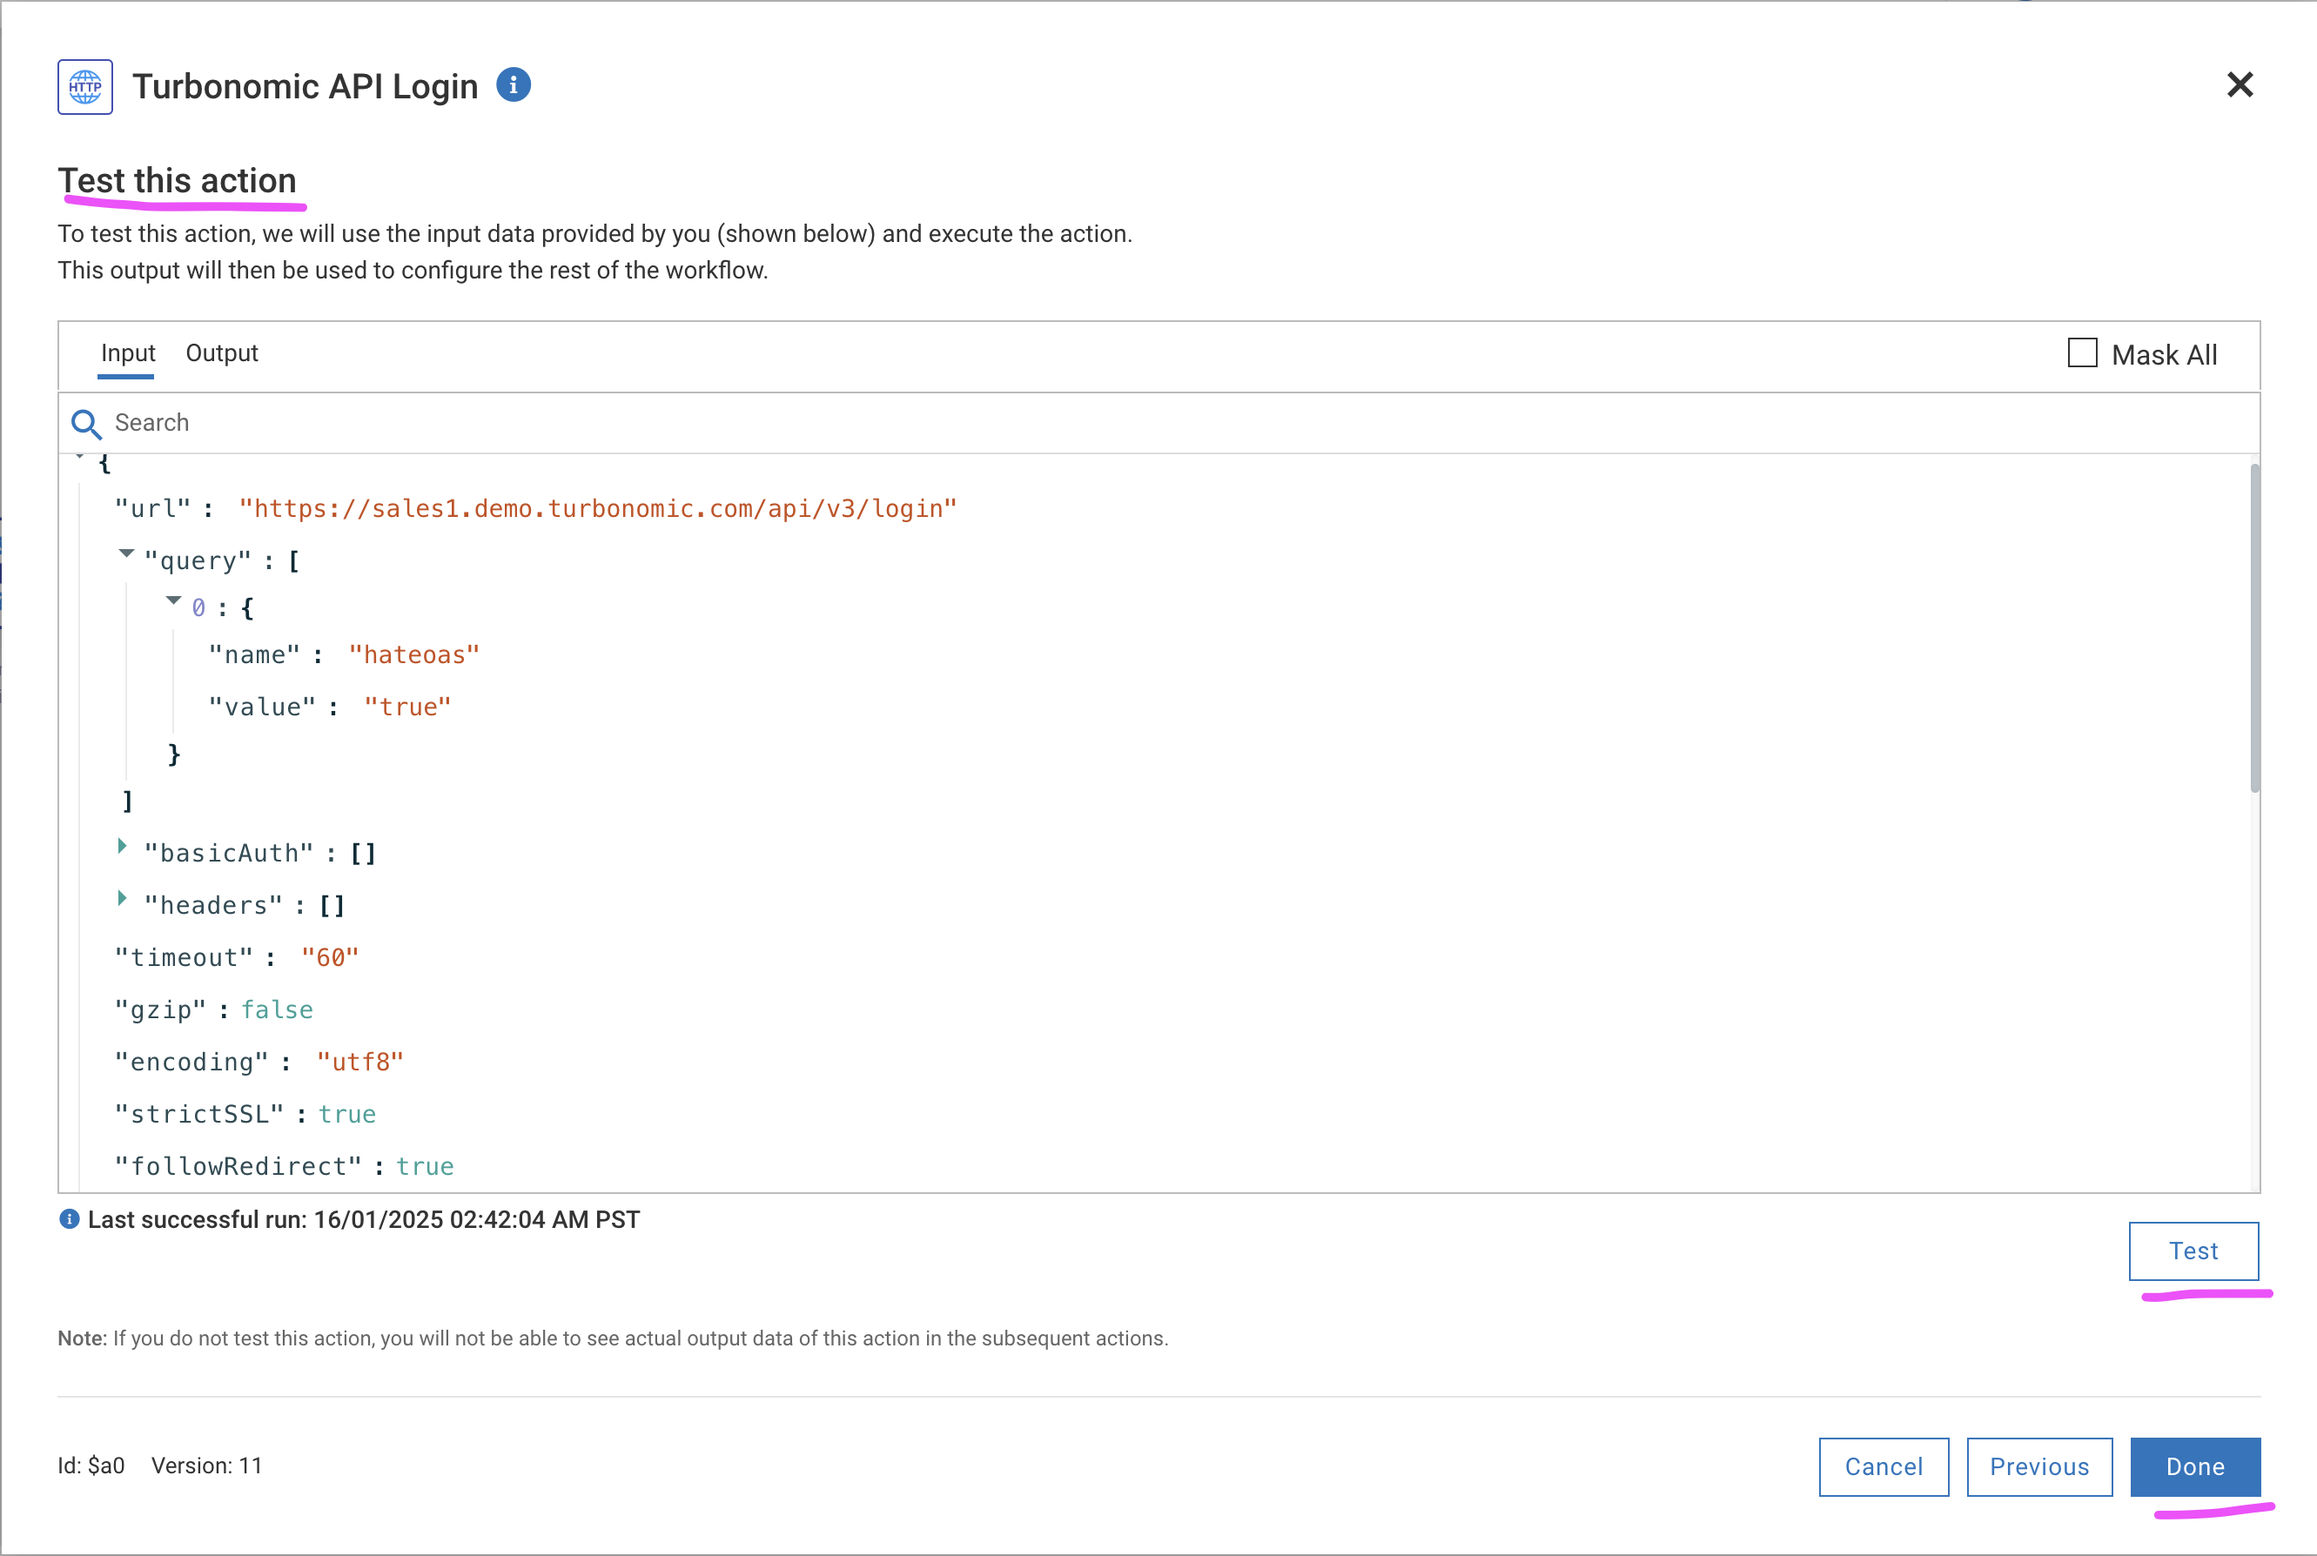
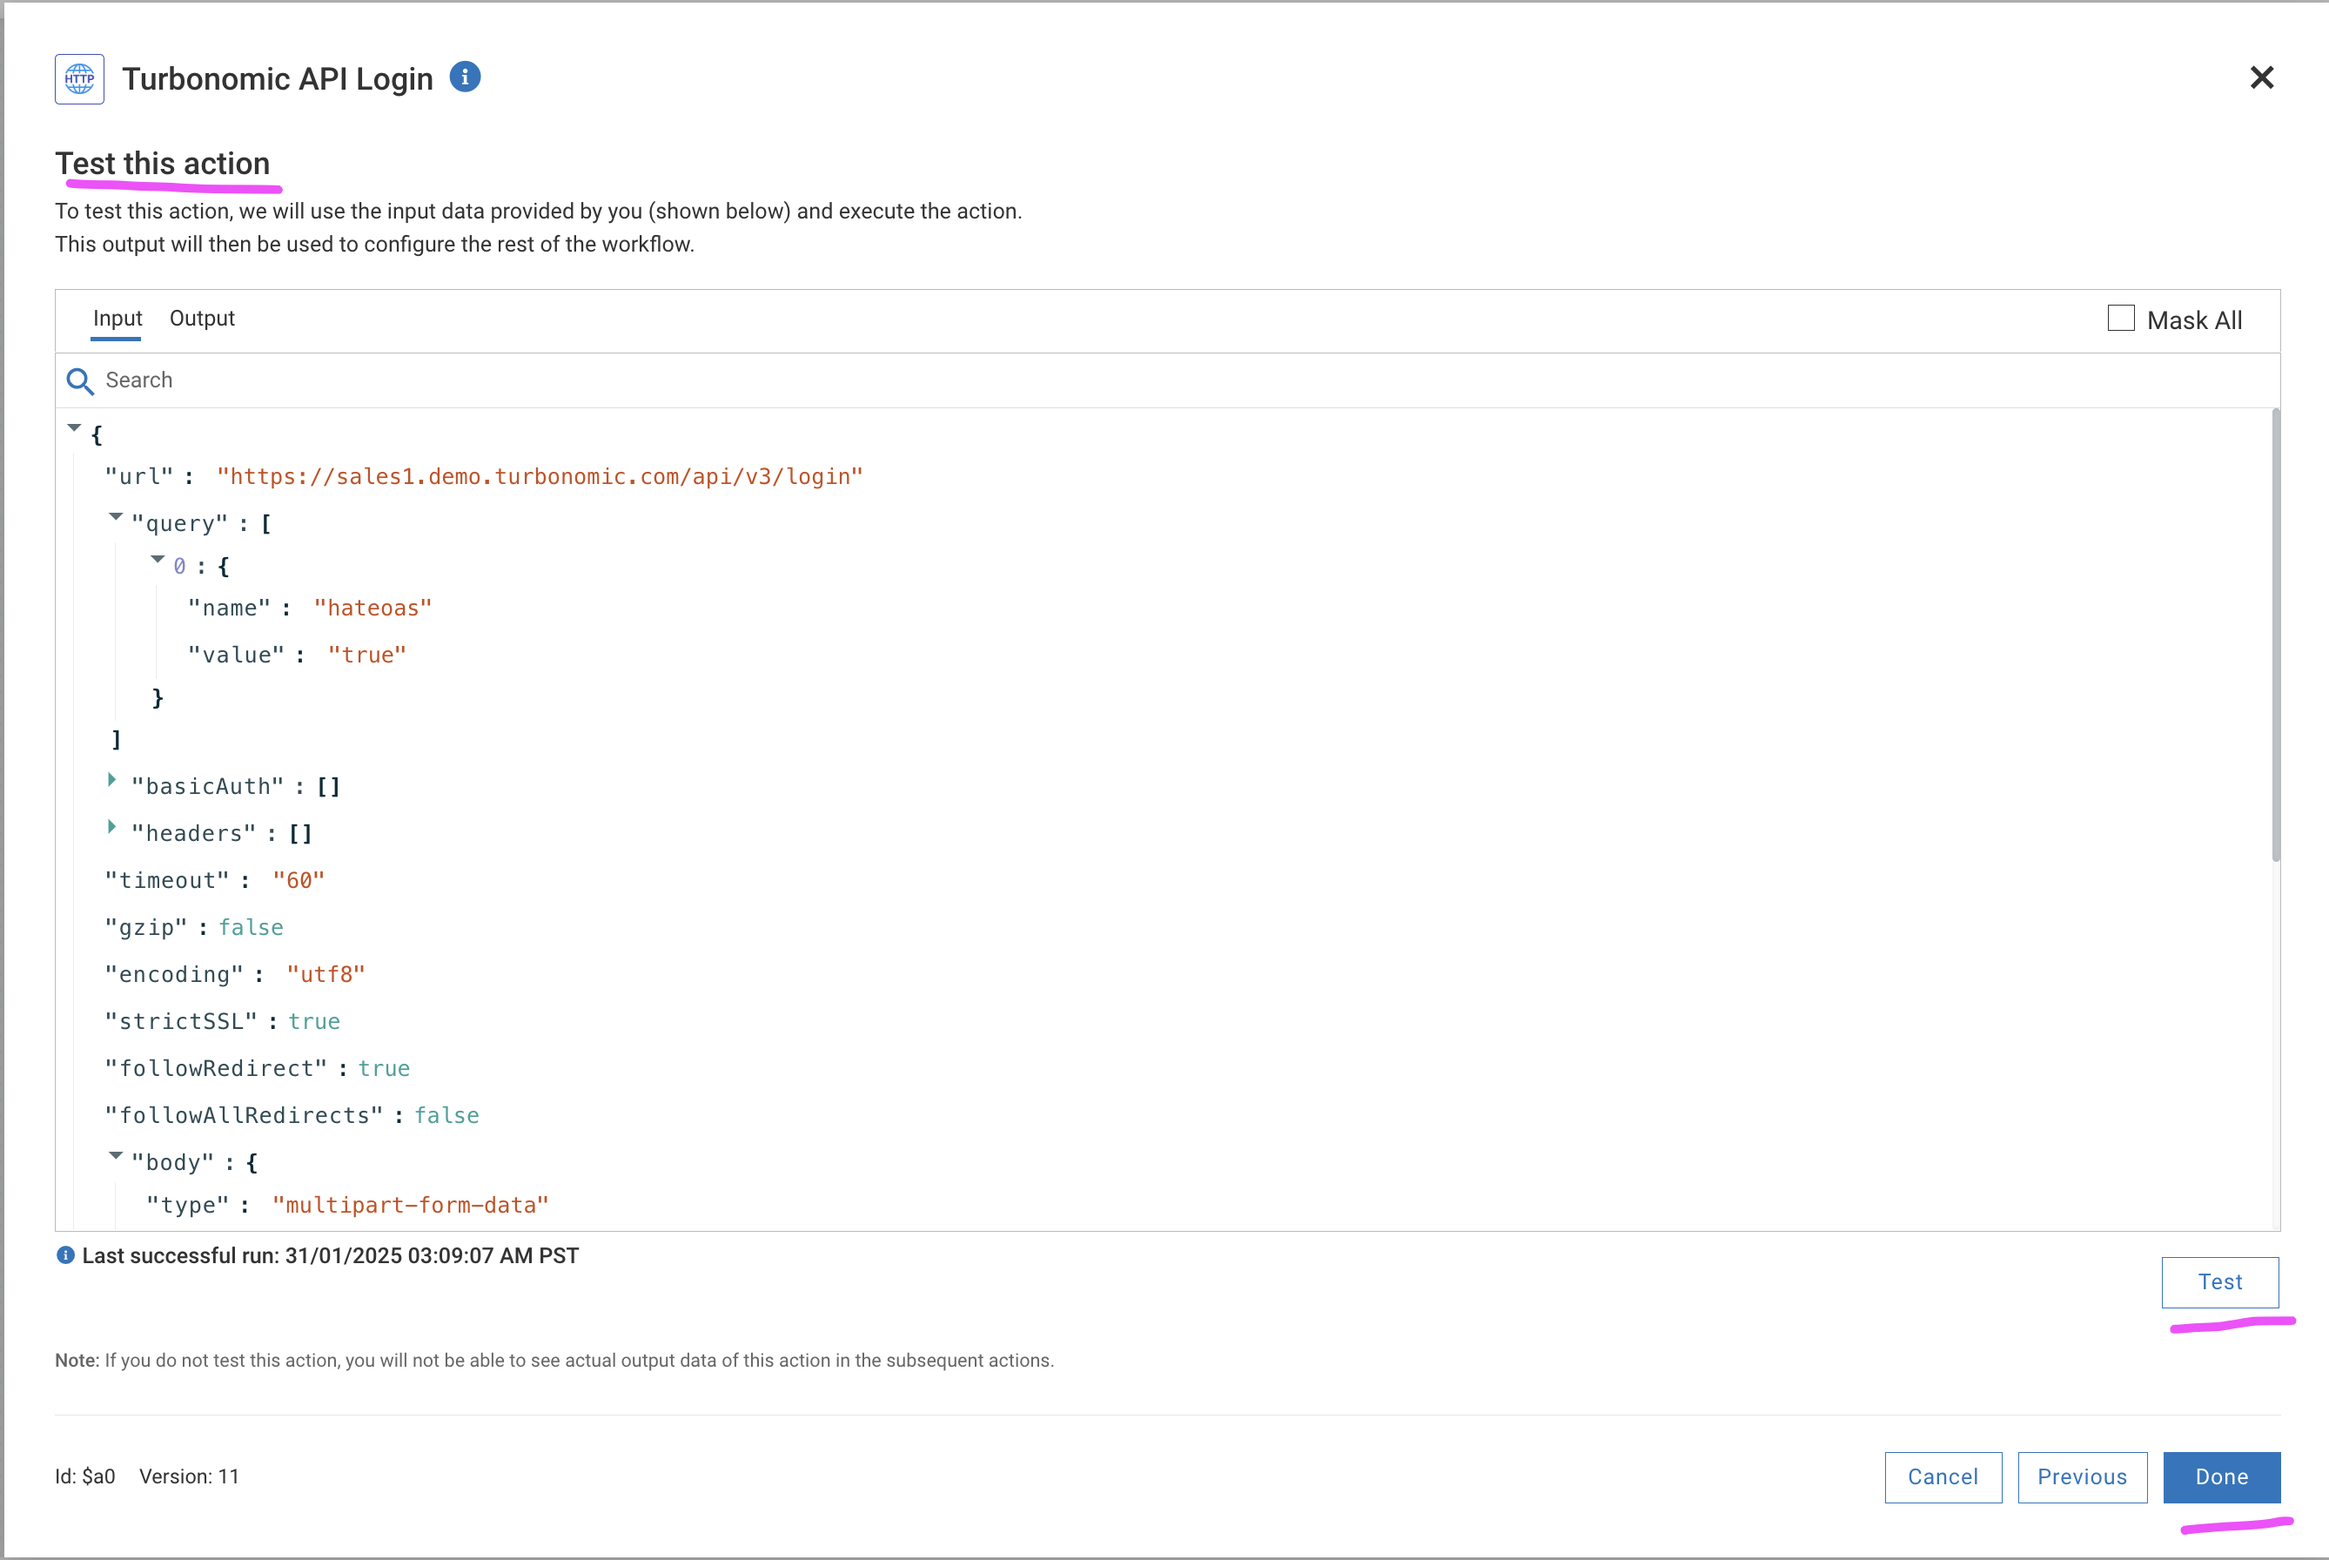
Updated workflow

diff --git a/README.md b/README.md
@@ -51,21 +51,21 @@ In this workflow, we will invoke Turbonomic APIs to fetch Energy consumption for
 
 - Login to your instance of webMethods integration with the respective credentials.
 
-### 4.2. Create a new Project
+### 3.2. Create a new Project
 
 - Name Project Name as `Turbo_wM_Envizi` and Leave `Source Control - Git server/account` as Default. Note choose the project name as you desired.
 
 <img src="images/wMAccNewProject-02.png">
 
 
-### 4.3. Import the Workflows
+### 3.3. Import the Workflows
 
 - Download the Workflow archive file here [Accounts](./files/webMethods-archives/Accounts).
 - Click on the `Import` and select the Workflow location that is downloaded in the above step.
 
 <img src="images/wMAccImport-03.png">
 
-### 4.4. Provide Workflow name, Workflow description, AWS service
+### 3.4. Provide Workflow name, Workflow description, AWS service
 
 - Provide the `Workflow name` as `Sustainability Solution - Accounts` and `Workflow description`. Please name `Workflow name` and `Workflow description` as per your need.
 - Parameters custom `key-value pairs` used inside the Workflow.
@@ -89,9 +89,14 @@ In this workflow, we will invoke Turbonomic APIs to fetch Energy consumption for
 
 <img src="images/wMAccWorkflow-01.png">
 
+#### Add Reference Data
+- Reference data is a file which is a Envizi template expects as a final output.  Please download the Reference data [ReferenceData](./files/webMethods-archives/Reference/)which needs to be added after importing the Workflow in a project.
+- Under the project reated in step 3.2, Click on `Configurations -> Flow service -> Reference data -> Add Reference Data`
+- `Save As` EnviziTemplate and `Reference Data File` Browse file and select the `EnviziTemplate.txt` and Click on `Next`, `Next` and `Done`
+
 - Click on `Edit` by moving mouse over the Workflow imported above.
 
-### 4.5. Configure the Workflow nodes
+### 3.5. Configure the Workflow nodes
 
 - In this step Workflow nodes configuration needs to be updated.
 
@@ -99,38 +104,11 @@ In this workflow, we will invoke Turbonomic APIs to fetch Energy consumption for
 
 #### 4.5.1. Configure the node `Turbonomic API Login`
 
+- Configurations for all the nodes are already available when the Workflow is imported, However each node needs to be tested.
+
 - Mouse over to `Turbonomic API Login` node and click on `Settings`
 - Click on `Next`
-- In the `Action configure` page choose as below
-- Select HTTP Method: `POST`
-- URL: `https://[Tubonomic-URL]]/api/v3/login?hateoas=true`
-
-#### URL Params
-
-- Under `URL Param 1` Key and Value to be updated
-- Key: `hateoas`
-- Value: `true`
-
-<img src="images/wMAccTAPILogin-03.png">
-
-#### Set Body Type
-
-- Set Body Type: `multipart-form-data`
-
-#### Body
-
-- Note: `username` and `password` to access the Turbonomic API's are created as pre-requisite.
-- Under `Body 1` Name & Value to be updated
-- Name: `username`
-- Value: `Value of the username`
-- Under `Body 2` Name & Value to be updated
-- Name: `password`
-- Value: `Value of the password`
-
-- Rest of the values to be left as is.
-- Click on `Next`
-
-<img src="images/wMAccTAPILogin-04.png">
+- In the `Action configure`, Click on `Next`
 
 #### Test this action
 
@@ -142,26 +120,7 @@ In this workflow, we will invoke Turbonomic APIs to fetch Energy consumption for
 
 - Mouse over to `DataCentre Retrieve` node and click on `Settings`
 - Click on `Next`
-- In the `Action configure` page choose as below
-- Select HTTP Method: `GET`
-- URL: `https://[Turbonomic-URL]]/api/v3/search?types=DataCenter`
-
-#### URL Params
-
-- Provide `Key` and `Value` under 'URL Param 1'
-- Key: `types`
-- Value: `DataCentre`
-
-<img src="images/wMAccDTRet-06.png">
-
-#### Headers
-
-- Under `Headers > Headers 1` Key & Value to be provided
-- Key: `Cookie`
-- Value: Drag and drop the `set-cookie` from the `Turbonomic API Login` node as shown in the screen
-- Click on `Next`
-
-<img src="images/wMAccDTRet-07.png">
+- In the `Action configure`, Click on `Next`
 
 #### Test this action
 
